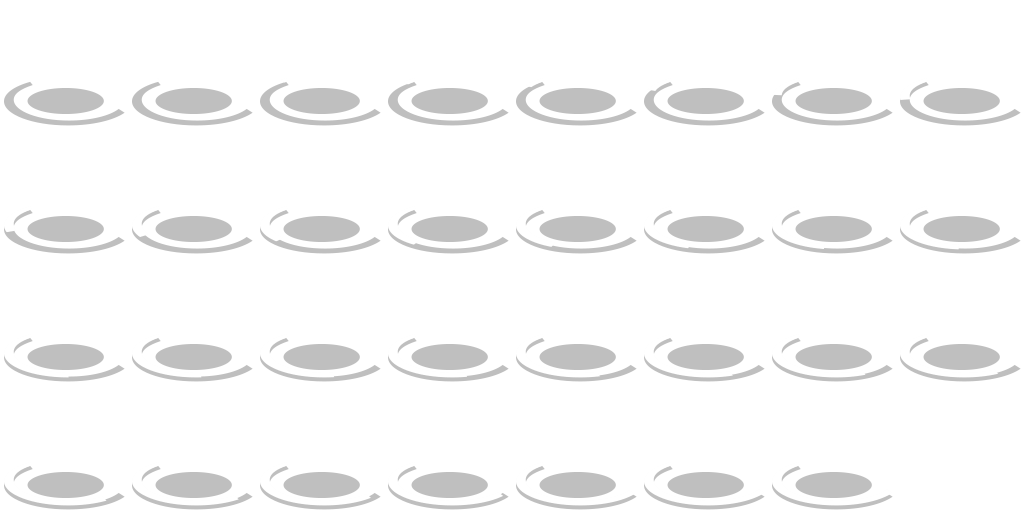
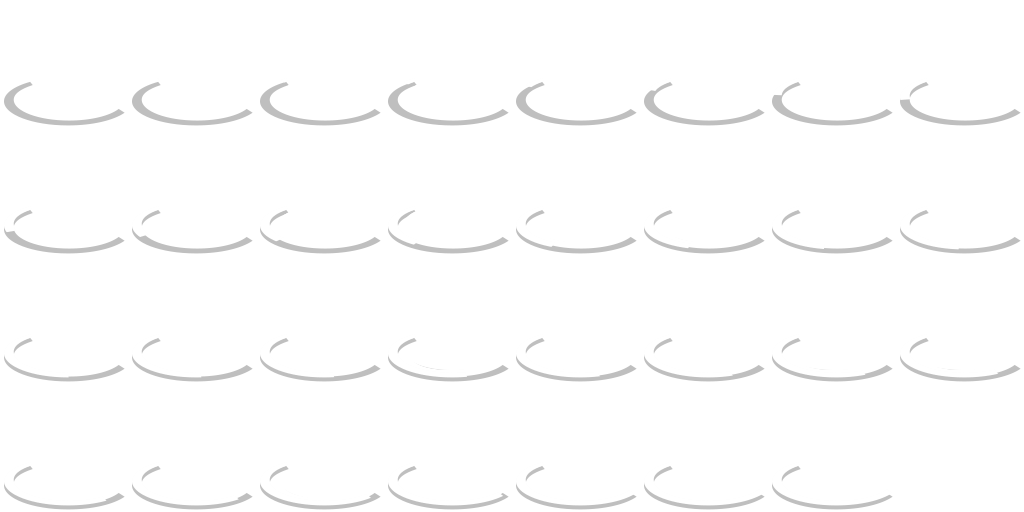
Host charge drawn separate from shadow (above walls), and zoomed out slightly more

diff --git a/core/src/edu/cornell/gdiac/physics/Factory.java b/core/src/edu/cornell/gdiac/physics/Factory.java
@@ -1,6 +1,7 @@
 package edu.cornell.gdiac.physics;
 
 import com.badlogic.gdx.graphics.Texture;
+import com.badlogic.gdx.graphics.g2d.TextureRegion;
 import com.badlogic.gdx.math.Vector2;
 import com.badlogic.gdx.physics.box2d.BodyDef;
 import edu.cornell.gdiac.physics.host.HostModel;
@@ -15,6 +16,7 @@ public class Factory {
     private static int DEFAULT_LIFE = 250;
 
     private Texture hostChargeTexture;
+    private Texture hostShadow;
     private Texture hostTextureE;
     private Texture hostTextureN;
     private Texture hostTextureNE;
@@ -62,6 +64,9 @@ public class Factory {
     private Texture oscWallHorzTexture;
     private Texture oscWallHorzGaugeTexture;
     private Texture rootsTexture;
+
+    /** The shadow texture for hosts. Not a film strip, so can be stored here */
+    private TextureRegion hostShadowRegion;
 
     // Static variables for sprite sheets
 
@@ -219,6 +224,7 @@ public class Factory {
             Texture spiritHeadTexture,
             Texture spiritTailTexture,
             Texture hostChargeTexture,
+            Texture hostShadow,
             Texture hostTextureE,
             Texture hostTextureN,
             Texture hostTextureNE,
@@ -269,6 +275,7 @@ public class Factory {
         this.spiritHeadTexture = spiritHeadTexture;
         this.spiritTailTexture = spiritTailTexture;
         this.hostChargeTexture = hostChargeTexture;
+        this.hostShadow = hostShadow;
         this.hostTextureE = hostTextureE;
         this.hostTextureN = hostTextureN;
         this.hostTextureNE = hostTextureNE;
@@ -313,6 +320,8 @@ public class Factory {
         this.oscWallHorzTexture = oscWallHorzTexture;
         this.oscWallHorzGaugeTexture = oscWallHorzGaugeTexture;
         this.rootsTexture = rootsTexture;
+
+        this.hostShadowRegion = new TextureRegion(hostShadow);
     }
 
     public DecorativeRoots makeDecorativeRoot(float x, float y, int frame) {
@@ -545,12 +554,7 @@ public class Factory {
     }
 
     public HostModel makeSmallHost(float x, float y, Vector2[] instructions, int currentCharge) {
-        return makeHostInternal(x, y, instructions, SMALL_MAX_CHARGE, currentCharge, hostTextureE, hostTextureN,
-                hostTextureNE, hostTextureNW, hostTextureS, hostTextureSE, hostTextureSW, hostTextureW,
-                glyphTextureE, glyphTextureN, glyphTextureNE, glyphTextureNW, glyphTextureS, glyphTextureSE,
-                glyphTextureSW, glyphTextureW, hostDeathTextureE, hostDeathTextureN, hostDeathTextureNE,
-                hostDeathTextureNW, hostDeathTextureS, hostDeathTextureSE, hostDeathTextureSW,
-                hostDeathTextureW, hostArmTexture, hostGenPossession, hostNewPossession, hostWakingUp, hostChargeTexture);
+        return makeHostInternal(x, y, instructions, SMALL_MAX_CHARGE, currentCharge);
     }
 
     public HostModel makePedestal(float x, float y) {
@@ -574,17 +578,7 @@ public class Factory {
         return ped;
     }
 
-    private HostModel makeHostInternal(float x, float y, Vector2[] instructions, int maxCharge, int currentCharge,
-                                       Texture hostTextureE, Texture hostTextureN, Texture hostTextureNE,
-                                       Texture hostTextureNW, Texture hostTextureS, Texture hostTextureSE,
-                                       Texture hostTextureSW, Texture hostTextureW, Texture glyphTextureE,
-                                       Texture glyphTextureN, Texture glyphTextureNE, Texture glyphTextureNW,
-                                       Texture glyphTextureS, Texture glyphTextureSE, Texture glyphTextureSW,
-                                       Texture glyphTextureW, Texture hostDeathTextureE, Texture hostDeathTextureN,
-                                       Texture hostDeathTextureNE, Texture hostDeathTextureNW, Texture hostDeathTextureS,
-                                       Texture hostDeathTextureSE, Texture hostDeathTextureSW, Texture hostDeathTextureW,
-                                       Texture hostArmTexture, Texture hostGenPossession, Texture hostNewPossession,
-                                       Texture hostWakingUp, Texture hostChargeTexture) {
+    private HostModel makeHostInternal(float x, float y, Vector2[] instructions, int maxCharge, int currentCharge) {
         HostModel host = new HostModel(
                 x,
                 y,
@@ -598,6 +592,7 @@ public class Factory {
         );
         host.setDrawScale(scale);
         host.setChargeStrip(new FilmStrip(hostChargeTexture, CHARGE_ROWS, CHARGE_COLUMNS, CHARGE_SIZE), currentCharge);
+        host.setHostShadow(hostShadowRegion);
         host.setHostStrip(new FilmStrip(hostTextureE, HOST_ROWS, HOST_COLUMNS, HOST_SIZE), new FilmStrip(hostTextureN, HOST_ROWS, HOST_COLUMNS, HOST_SIZE),
                 new FilmStrip(hostTextureNE, HOST_ROWS, HOST_COLUMNS, HOST_SIZE), new FilmStrip(hostTextureNW, HOST_ROWS, HOST_COLUMNS, HOST_SIZE),
                 new FilmStrip(hostTextureS, HOST_ROWS, HOST_COLUMNS, HOST_SIZE), new FilmStrip(hostTextureSE, HOST_ROWS, HOST_COLUMNS, HOST_SIZE),

diff --git a/core/src/edu/cornell/gdiac/physics/WorldController.java b/core/src/edu/cornell/gdiac/physics/WorldController.java
@@ -157,6 +157,8 @@ public abstract class WorldController implements Screen {
 
 	/** File to texture for Hosts' Gauge */
 	private static String HOST_GAUGE_FILE = "host/chargeGauge.png";
+	/** File to texture for Hosts' Shadow */
+	private static String HOST_SHADOW_FILE = "host/shadow.png";
 	/** Texture file for arrow sprite */
 	private static final String ARROW_FILE = "shared/arrow.png";
 	/** File to texture for Walls */
@@ -268,6 +270,8 @@ public abstract class WorldController implements Screen {
 	private static Texture hostWakingUpTexture;
 	/** Texture for Host Gauge SpriteSheet */
 	private static Texture hostGaugeTexture;
+	/** Texture for Host Shadow */
+	private static Texture hostShadowTexture;
 	/** Texture for Wall SpriteSheet */
 	private static Texture wallTexture;
 	/** Texture for Water SpriteSheet */
@@ -417,6 +421,8 @@ public abstract class WorldController implements Screen {
 		assets.add(HOST_WAKING_UP_FILE);
 		manager.load(HOST_GAUGE_FILE, Texture.class);
 		assets.add(HOST_GAUGE_FILE);
+		manager.load(HOST_SHADOW_FILE, Texture.class);
+		assets.add(HOST_SHADOW_FILE);
 		manager.load(WALL_FILE, Texture.class);
 		assets.add(WALL_FILE);
 		manager.load(WATER_FILE, Texture.class);
@@ -530,6 +536,7 @@ public abstract class WorldController implements Screen {
 		hostGenPossessionTexture = manager.get(HOST_GEN_POSSESSION_FILE, Texture.class);
 		hostWakingUpTexture = manager.get(HOST_WAKING_UP_FILE, Texture.class);
 		hostGaugeTexture = manager.get(HOST_GAUGE_FILE, Texture.class);
+		hostShadowTexture = manager.get(HOST_SHADOW_FILE, Texture.class);
 		wallTexture = manager.get(WALL_FILE, Texture.class);
 		waterTexture = manager.get(WATER_FILE, Texture.class);
 		cornerTexture = manager.get(CORNER_FILE, Texture.class);
@@ -552,7 +559,7 @@ public abstract class WorldController implements Screen {
 
 		// Set the proper textures in the factory
 		factory = new Factory(scale, spiritBodyTexture, spiritHeadTexture, spiritTailTexture,
-				hostGaugeTexture, hostTextureE, hostTextureN, hostTextureNE, hostTextureNW,
+				hostGaugeTexture, hostShadowTexture, hostTextureE, hostTextureN, hostTextureNE, hostTextureNW,
 				hostTextureS, hostTextureSE, hostTextureSW, hostTextureW, hostGlyphTextureE,
 				hostGlyphTextureN, hostGlyphTextureNE, hostGlyphTextureNW, hostGlyphTextureS,
 				hostGlyphTextureSE, hostGlyphTextureSW, hostGlyphTextureW, hostDeathTextureE,
@@ -1167,7 +1174,7 @@ public abstract class WorldController implements Screen {
 			wall.drawFront(canvas);
 		}
 		for(HostModel host : hostDrawLayer) {
-			host.drawCharge(canvas);
+			host.drawShadow(canvas);
 		}
 		for(HostModel host : hostDrawLayer) {
 			host.draw(canvas);
@@ -1177,6 +1184,9 @@ public abstract class WorldController implements Screen {
 		}
 		for(Wall wall : wallDrawLayer) {
 			wall.drawTop(canvas);
+		}
+		for(HostModel host : hostDrawLayer) {
+			host.drawCharge(canvas);
 		}
 		for(BorderEdge edge : edgeDrawLayer) {
 			edge.drawNotTop(canvas);

diff --git a/core/src/edu/cornell/gdiac/physics/host/HostModel.java b/core/src/edu/cornell/gdiac/physics/host/HostModel.java
@@ -10,6 +10,7 @@
 package edu.cornell.gdiac.physics.host;
 
 import com.badlogic.gdx.graphics.Color;
+import com.badlogic.gdx.graphics.g2d.TextureRegion;
 import com.badlogic.gdx.math.Affine2;
 import com.badlogic.gdx.math.Vector2;
 import com.badlogic.gdx.physics.box2d.World;
@@ -82,6 +83,11 @@ public class HostModel extends BoxObstacle {
      * The texture for charge UI
      */
     FilmStrip hostChargeUI;
+
+    /**
+     * The texture for shadow
+     */
+    TextureRegion hostShadow;
 
     /**
      * The texture for general glyph strip
@@ -837,6 +843,10 @@ public class HostModel extends BoxObstacle {
         }
     }
 
+    public void setHostShadow(TextureRegion shadow) {
+        this.hostShadow = shadow;
+    }
+
     /**
      * Sets all the textures by direction for the host
      *
@@ -1224,6 +1234,17 @@ public class HostModel extends BoxObstacle {
         }
     }
 
+    /**
+     * Draws the host shadow
+     *
+     * @param canvas Drawing context
+     */
+    public void drawShadow(GameCanvas canvas) {
+        if (!this.isPedestal) {
+            setScaling(hostShadow);
+            canvas.draw(hostShadow, Color.BLACK, hostChargeUI.getRegionWidth() / 2f,hostChargeUI.getRegionHeight() / 2f, getX() * drawScale.x, getY() * drawScale.x, getAngle(), 0.9f, 0.9f);
+        }
+    }
 
     /**
      * Draws the host charge UI bar.

diff --git a/core/src/edu/cornell/gdiac/physics/GameCanvas.java b/core/src/edu/cornell/gdiac/physics/GameCanvas.java
@@ -58,7 +58,10 @@ public class GameCanvas {
 		ADDITIVE,
 		/** Color values are draw on top of one another with no transparency support */
 		OPAQUE
-	}	
+	}
+
+	public static final float ZOOM_IN_MULTIPLIER = 1.25f;
+	public static final float ZOOM_OUT_MULTIPLIER = 2.f;
 
 	
 	/** Drawing context to handle textures AND POLYGONS as sprites */
@@ -149,6 +152,8 @@ public class GameCanvas {
 		global = new Matrix4();
 		vertex = new Vector2();
 		camPos = new Vector2();
+
+		camera.zoom = ZOOM_IN_MULTIPLIER;
 	}
 		
     /**
@@ -235,7 +240,7 @@ public class GameCanvas {
 	 * Begins the process of zooming the camera out
 	 */
 	public void zoomOut() {
-		targetZoom = 1.75f;
+		targetZoom = ZOOM_OUT_MULTIPLIER;
 		zoomingOut = true;
 		zoomingIn = false;
 		zooming = true;
@@ -245,7 +250,7 @@ public class GameCanvas {
 	 * Begins the process of zooming the camera out
 	 */
 	public void zoomIn() {
-	    targetZoom = 1;
+	    targetZoom = ZOOM_IN_MULTIPLIER;
 		zoomingIn = true;
 		zoomingOut = false;
 		zooming = true;
